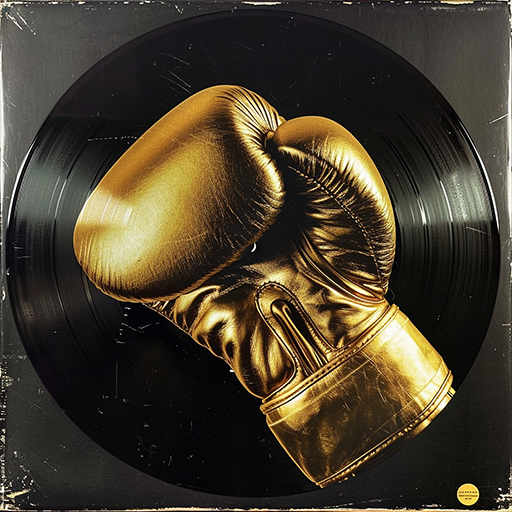
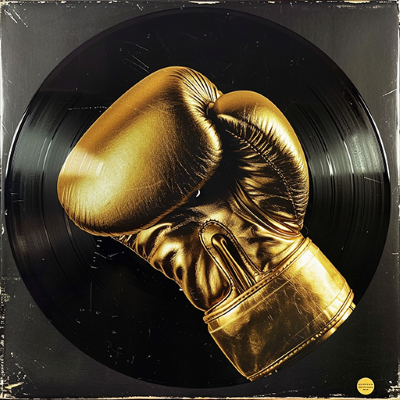
refactor: update HTML structure and styling in index.html, adjust headings and paragraphs for better semantics

diff --git a/index.html b/index.html
@@ -216,11 +216,11 @@
         </div>
 
         <div class="content_box">
-          <h1>
+          <h2>
             <a class="page" href="https://www.mixtape.followcrom.com"
               >MixTape HeavyWeight</a
             >
-          </h1>
+          </h2>
           <a href="https://www.mixtape.followcrom.com"
             ><img
               class="box_image"
@@ -231,13 +231,13 @@
               alt="A vinyl record and a gold boxing glove"
               title="A vinyl record and a gold boxing glove"
           /></a>
-          <h3>
+          <p>
             - DJ mix player built with PHP & JavaScript.<br />
             - Web Audio API provides methods and interfaces for audio
             processing.<br />
             - Canvas API for rendering the audio visualizer.<br />
             - Fetch API for submitting comments and ratings without page reload.
-          </h3>
+          </p>
           <div class="icon-container">
             <img
               class="icon"
@@ -273,11 +273,11 @@
         </div>
 
         <div class="content_box">
-          <h1>
+          <h2>
             <a class="page" href="https://ttt.followcrom.com/"
               >Top Track Tracker</a
             >
-          </h1>
+          </h2>
           <a href="https://ttt.followcrom.com/"
             ><img
               class="box_image"
@@ -289,14 +289,14 @@
               alt="A smart phone being smashed by a flower"
               title="A smart phone being smashed by a flower"
           /></a>
-          <h3>
+          <p>
             - Django web app connects to the Spotify API to retrieve user data
             and track information.<br />
             - Get a user's top tracks across different time periods.<br />
             - Add selected tracks to the Top Track Tracker playlist & export it
             to a CSV file.<br />
             - Hosted on a Digital Ocean Linux server.
-          </h3>
+          </p>
           <div class="icon-container">
             <i class="fa-brands fa-spotify" style="color: green"></i>
             <i class="fa-brands fa-python" style="color: #306998"></i>
@@ -310,13 +310,13 @@
           </div>
         </div>
         <div class="content_box">
-          <h1>
+          <h2>
             <a
               class="page"
               href="https://play.google.com/store/apps/details?id=com.followcrom.domdom"
               >RanDOM WisDOM</a
             >
-          </h1>
+          </h2>
           <a
             href="https://play.google.com/store/apps/details?id=com.followcrom.domdom"
             ><img
@@ -329,14 +329,14 @@
               alt="RanDOM WisDOM Android app"
               title="RanDOM WisDOM Android app"
           /></a>
-          <h3>
+          <p>
             - Android app built in Node.js using the React framework.<br />
             - TypeScript implements the functionality.<br />
             - AWS API Gateway routes requests to the server & other AWS
             services.<br />
             - Released and maintained on the Google Play Store for worldwide
             distribution.
-          </h3>
+          </p>
           <div class="icon-container">
             <i class="fa-brands fa-android" style="color: #3cba54"></i>
             <i class="fa-brands fa-square-js" style="color: #f7df1e"></i>
@@ -347,9 +347,9 @@
         </div>
 
         <div class="content_box">
-          <h1>
+          <h2>
             <a class="page" href="wotd/">Word of the Week</a>
-          </h1>
+          </h2>
           <a href="wotd/"
             ><img
               class="box_image"
@@ -361,14 +361,14 @@
               alt="Mail man on a hover board"
               title="Mail man on a hover board"
           /></a>
-          <h3>
+          <p>
             - Python script selects the 'Word of the Week' from a curated
             list.<br />
             - smtplib and MIMEText in Python format the emails.<br />
             - GitHub Actions schedule and automate the script's weekly
             execution.<br />
             - PHP for secure user signup and email validation.
-          </h3>
+          </p>
           <div class="icon-container">
             <i class="fa-brands fa-python" style="color: #3776ab"></i>
             <i class="fa-brands fa-github" style="color: #000"></i>
@@ -378,9 +378,9 @@
         </div>
 
         <div class="content_box">
-          <h1>
+          <h2>
             <a class="page" href="/momcon/">Momento Contento</a>
-          </h1>
+          </h2>
           <a href="/momcon/"
             ><img
               class="box_image"
@@ -392,14 +392,14 @@
               alt="Momento Contento web app"
               title="Momento Contento web app"
           /></a>
-          <h3>
+          <p>
             - Web app built using the Flask framework for Python.<br />
             - Front-end U.I designed and built with HTML, CSS, and
             JavaScript.<br />
             - Connects to a MySQL database on the back-end to store and retrieve
             data.<br />
             - Users can contribute to the database using the web app's form.
-          </h3>
+          </p>
           <div class="icon-container">
             <img
               class="icon"
@@ -435,13 +435,13 @@
         </div>
 
         <div class="content_box">
-          <h1>
+          <h2>
             <a
               class="page"
               href="https://followcrom.github.io/jellygut/version-2/"
               >Jelly Gut</a
             >
-          </h1>
+          </h2>
           <a href="https://followcrom.github.io/jellygut/version-2/"
             ><img
               class="box_image"
@@ -453,13 +453,13 @@
               alt="Chef mixing a bowl of jelly"
               title="Chef mixing a bowl of jelly"
           /></a>
-          <h3>
+          <p>
             - Calendar interface to track and manage daily activities
             efficiently.<br />
             - Vanilla JavaScript, HTML & CSS.<br />
             - GitHub-authenticated secure sign-in.<br />
             - Firebase Realtime Database backend.
-          </h3>
+          </p>
           <div class="icon-container">
             <i class="fa-solid fa-fire" style="color: red" title="Firebase"></i>
             <i class="fa-brands fa-github" style="color: #000"></i>
@@ -470,13 +470,13 @@
         </div>
 
         <div class="content_box">
-          <h1>
+          <h2>
             <a
               class="page"
               href="https://medium.com/@followcrom/do-the-data-dance-934fd7bb8738"
               >Do the Data Dance?</a
             >
-          </h1>
+          </h2>
           <a
             href="https://medium.com/@followcrom/do-the-data-dance-934fd7bb8738"
             ><img
@@ -489,13 +489,13 @@
               alt="Matrix-style data dancing"
               title="Matrix-style data dancing"
           /></a>
-          <h3>
+          <p>
             - A two-part analysis of Spotify's popularity algorithm.<br />
             - EDA on a 550k+ row dataset, using Python with Pandas for data
             cleaning and analysis.<br />
             - Matplotlib, Seaborn and Plotly for visualization.<br />
             - Narrative blog post on Medium.
-          </h3>
+          </p>
           <div class="icon-container">
             <i class="fa-brands fa-python" style="color: blue"></i>
             <i
@@ -515,9 +515,9 @@
         </div>
 
         <div class="content_box">
-          <h1>
+          <h2>
             <a class="page" href="w2w/words.html">Words to the Wise</a>
-          </h1>
+          </h2>
           <a href="w2w/words.html"
             ><img
               class="box_image"
@@ -529,7 +529,7 @@
               alt="A wooden bookshelf with various books whose spines are arranged to clearly form the number 20"
               title="A wooden bookshelf with various books whose spines are arranged to clearly form the number 20"
           /></a>
-          <h3>
+          <p>
             - 20 years of collected quotations and philosophical meanderings
             through space-time.<br />
             - The original version of the site, written in HTML, CSS and
@@ -537,7 +537,7 @@
             - Accounts on some of the earliest social media platforms.<br />
             - Originally updated manually, now fully automated with Python
             subprocesses.
-          </h3>
+          </p>
           <div class="icon-container">
             <i class="fa-solid fa-book" style="color: green"></i>
             <i class="fa-brands fa-html5" style="color: #e34f26"></i>
@@ -547,13 +547,13 @@
         </div>
 
         <div class="content_box">
-          <h1>
+          <h2>
             <a
               class="page"
               href="https://medium.com/@followcrom/vinyl-grooves-to-digital-waves-fe0b8a683101"
               >On the Record</a
             >
-          </h1>
+          </h2>
           <a
             href="https://medium.com/@followcrom/vinyl-grooves-to-digital-waves-fe0b8a683101"
             ><img
@@ -566,14 +566,14 @@
               alt="Old-skool DJ spinning on two gramophones"
               title="Old-skool DJ spinning on two gramophones"
           /></a>
-          <h3>
+          <p>
             - This article is a brief history (& pre-history) of recorded
             sound.<br />
             - Learn how changing audio formats shaped DJing.<br />
             - Ownership vs subscription: the trade-offs of using a DSP for a
             DJ.<br />
             - Read the full article on Medium.
-          </h3>
+          </p>
           <div class="icon-container">
             <i class="fa-brands fa-medium" style="color: white"></i>
             <i class="fa-solid fa-record-vinyl" style="color: black"></i>
@@ -583,11 +583,11 @@
         </div>
 
         <div class="content_box">
-          <h1>
+          <h2>
             <a class="page" href="adom_splitter/random_wisdom.php"
               >Adom Splitter</a
             >
-          </h1>
+          </h2>
           <a href="adom_splitter/random_wisdom.php"
             ><img
               class="box_image"
@@ -599,14 +599,14 @@
               alt="A person mediating while fireworks light the sky"
               title="A person mediating while fireworks light the sky"
           /></a>
-          <h3>
+          <p>
             - An early version of domdom that uses PHP explode() to get a quote
             from a text list.<br />
             - Responsive CSS ensures a good user experience across screen
             sizes.<br />
             - CSS animations make the page more engaging.<br />
             - Philosophical insights at the click of a button.
-          </h3>
+          </p>
           <div class="icon-container">
             <i class="fa-brands fa-php" style="color: #787cb5"></i>
             <i class="fa-solid fa-book" style="color: black"></i>
@@ -616,9 +616,9 @@
         </div>
 
         <div class="content_box">
-          <h1>
+          <h2>
             <a class="page" href="contact/contact.php">Get in Touch</a>
-          </h1>
+          </h2>
           <a href="contact/contact.php"
             ><img
               class="box_image"
@@ -630,7 +630,7 @@
               alt="Get in touch"
               title="Get in touch"
           /></a>
-          <h3>
+          <p>
             I am always looking for new challenges and opportunities to grow as
             a developer. Please don't hesitate to get in touch if you have a
             project that you'd like to discuss.
@@ -642,7 +642,7 @@
             <a class="page" href="https://linkedin.com/in/followCrom"
               >LinkedIn</a
             >
-          </h3>
+          </p>
         </div>
       </div>
     </main>

diff --git a/css/main.css b/css/main.css
@@ -147,6 +147,7 @@
   display: table;
 }
 
+.content_box h2,
 .content_box h1 {
   font-family: "Verdana", sans-serif;
   text-transform: bold;
@@ -156,6 +157,7 @@
   line-height: 1.2;
 }
 
+.content_box p,
 .content_box h3 {
   font-family: "Open Sans", Arial, Helvetica, sans-serif;
   font-weight: normal;
@@ -290,10 +292,12 @@ a:hover {
     width: 95%;
   }
 
+  .content_box h2,
   .content_box h1 {
     font-size: 2em;
   }
 
+  .content_box p,
   .content_box h3 {
     font-size: 0.95em;
     line-height: 1.8;
@@ -345,11 +349,13 @@ a:hover {
     width: 256px;
   }
 
+  .content_box h2,
   .content_box h1 {
     text-align: center;
     font-size: 2rem;
   }
 
+  .content_box p,
   .content_box h3 {
     padding: 0px;
     clear: both;